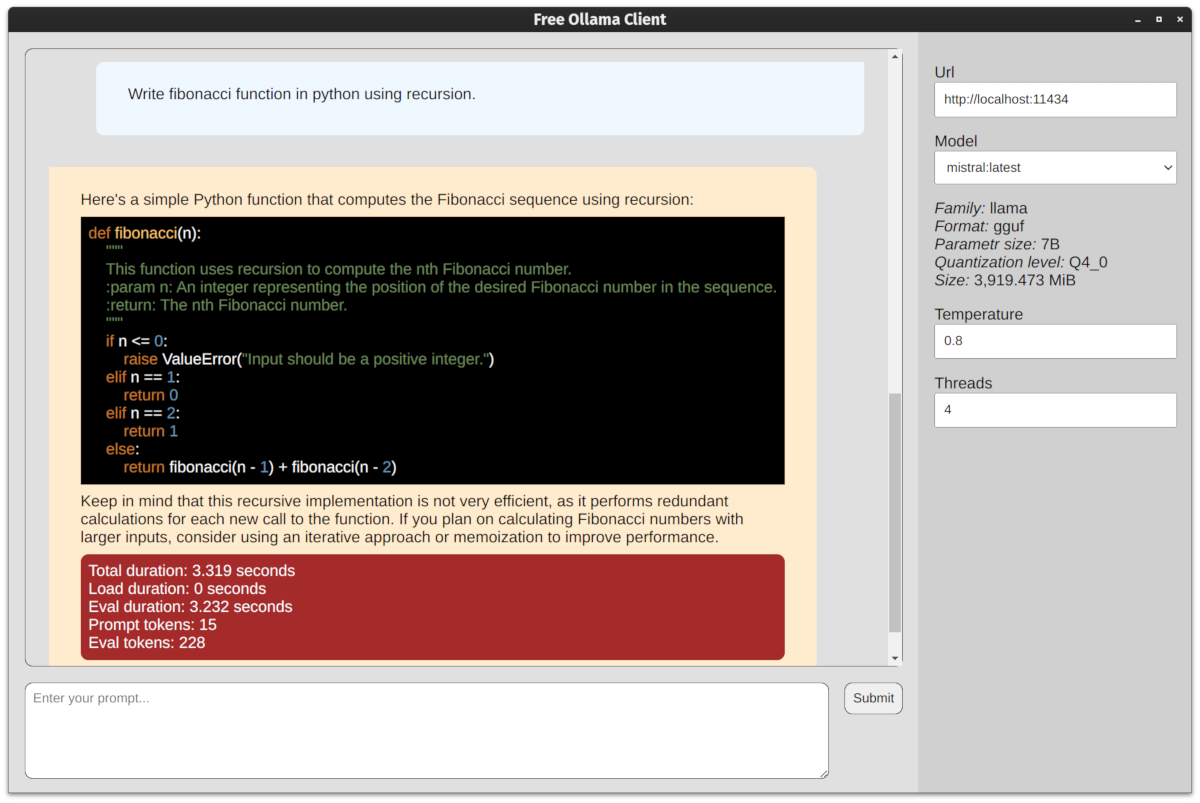
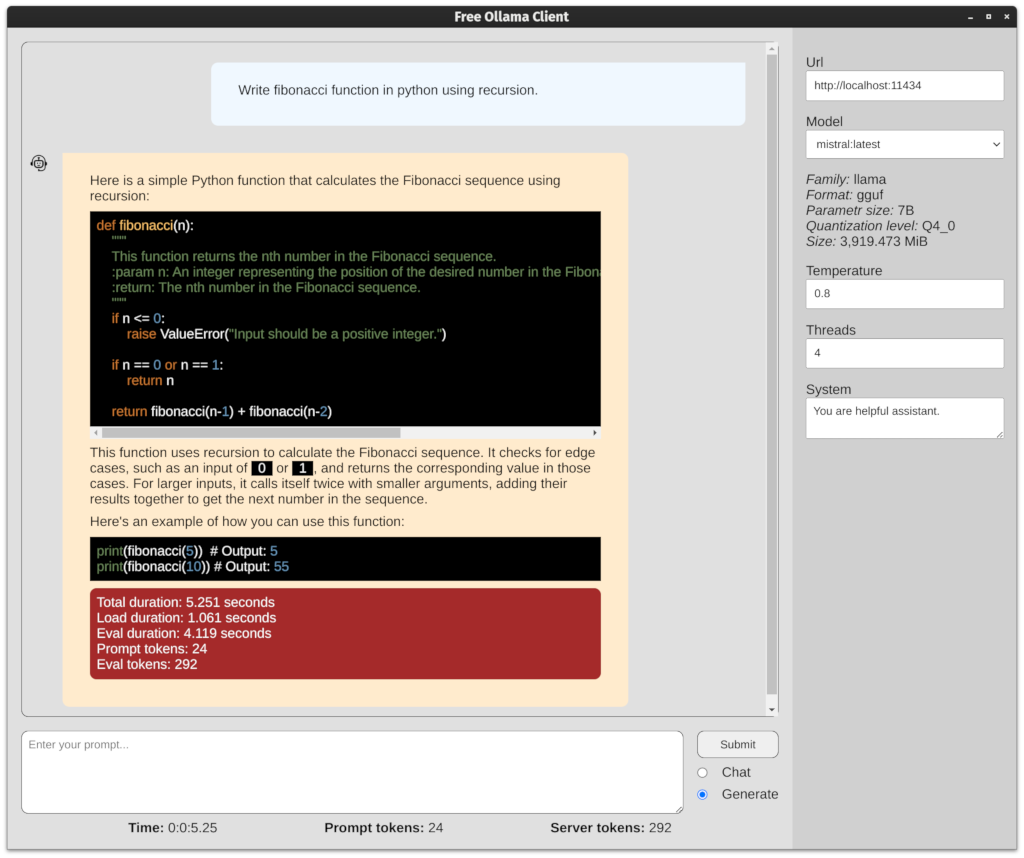
Build script for linux + fix layout issues + regenerate screenshot

diff --git a/src/App.vue b/src/App.vue
@@ -5,7 +5,7 @@
     <div class="central-area">
       <div id="chat" class="chat">
         <div v-for="response in responses" class="row">
-          <img v-if="response.role !== 'user'" src="./images/chatbot.png" width="24px" height="24" style="margin-top: 1rem;" />
+          <img v-if="response.role !== 'user'" src="./images/chatbot.png" class="chatbot" />
           <div :class="[ 'response', response.role ]" v-html="markdownToHtml(response.content)"></div>
         </div>
       </div>
@@ -202,7 +202,7 @@
           statistics.total_eval_tokens += json.eval_count;
 
           responses.value[responses.value.length - 1].content +=
-              `<pre class="system">Total duration: ${humanNumber(nanosecondsToSeconds(json.total_duration))} seconds
+              `\n\n<pre class="system">Total duration: ${humanNumber(nanosecondsToSeconds(json.total_duration))} seconds
 Load duration: ${humanNumber(nanosecondsToSeconds(json.load_duration))} seconds
 Eval duration: ${humanNumber(nanosecondsToSeconds(json.eval_duration))} seconds
 Prompt tokens: ${json.prompt_eval_count}
@@ -337,8 +337,11 @@ Eval tokens: ${part.eval_count}</pre>`;
 
 <style scoped>
   .container {
-    display: flex;
+    box-sizing: border-box;
+    display: grid;
     height: 100vh;
+    grid-template-columns: calc(100% - 250px) 250px;
+    grid-template-rows: 100vh;
   }
 
   .left-panel,
@@ -346,7 +349,6 @@ Eval tokens: ${part.eval_count}</pre>`;
   .right-panel {
     display: flex;
     flex-direction: column;
-    justify-items: stretch;
   }
 
   .left-panel {
@@ -356,9 +358,12 @@ Eval tokens: ${part.eval_count}</pre>`;
   }
 
   .central-area {
-    position: relative;
     background-color: #e0e0e0;
-    width: 75%;
+    padding: 1rem;
+  }
+
+  .right-panel {
+    background-color: #d0d0d0;
     padding: 1rem;
   }
 
@@ -427,30 +432,31 @@ Eval tokens: ${part.eval_count}</pre>`;
     border-radius: 0.5rem;
   }
 
-  .right-panel {
-    background-color: #d0d0d0;
-    width: 25%;
-    padding: 1rem;
-  }
-
   .response {
     margin: 1rem;
     padding: 1.5rem 2rem 1.5rem 2rem;
     word-wrap: anywhere;
-    width: 100%;
   }
 
   .user {
     background: aliceblue;
-    margin-left: 4rem;
+    margin-left: 25%;
+    width: 75%;
+    max-width: 75%;
     border-bottom-left-radius: 0.5rem;
     border-bottom-right-radius: 0.5rem;
     border-top-left-radius: 0.5rem;
   }
 
+  .chatbot {
+    width: 24px;
+    height: 24px;
+    margin-top: 1rem;
+  }
+
   .ollama {
     background: blanchedalmond;
-    margin-right: 4rem;
+    width: calc(75% - 48px - 1rem);
     border-bottom-left-radius: 0.5rem;
     border-bottom-right-radius: 0.5rem;
     border-top-right-radius: 0.5rem;

diff --git a/README.md b/README.md
@@ -21,17 +21,22 @@ yarn install
 yarn start
 ```
 
-## Building AppImage
+## Building AppImage and Flatpak on linux
 
 ```bash
-yarn package
-yarn build-appimage
+./build-linux.sh
 ```
 
 ## Running AppImage
 
 ```bash
 ./dist/Free\ Ollama\ Client-0.0.1.AppImage
+```
+
+## Installing Flatpak from file
+
+```bash
+flatpak install -u --bundle ./dist/Free\ Ollama\ Client-0.0.1-x86_64.flatpak
 ```
 
 ## Keyboard shortcuts
